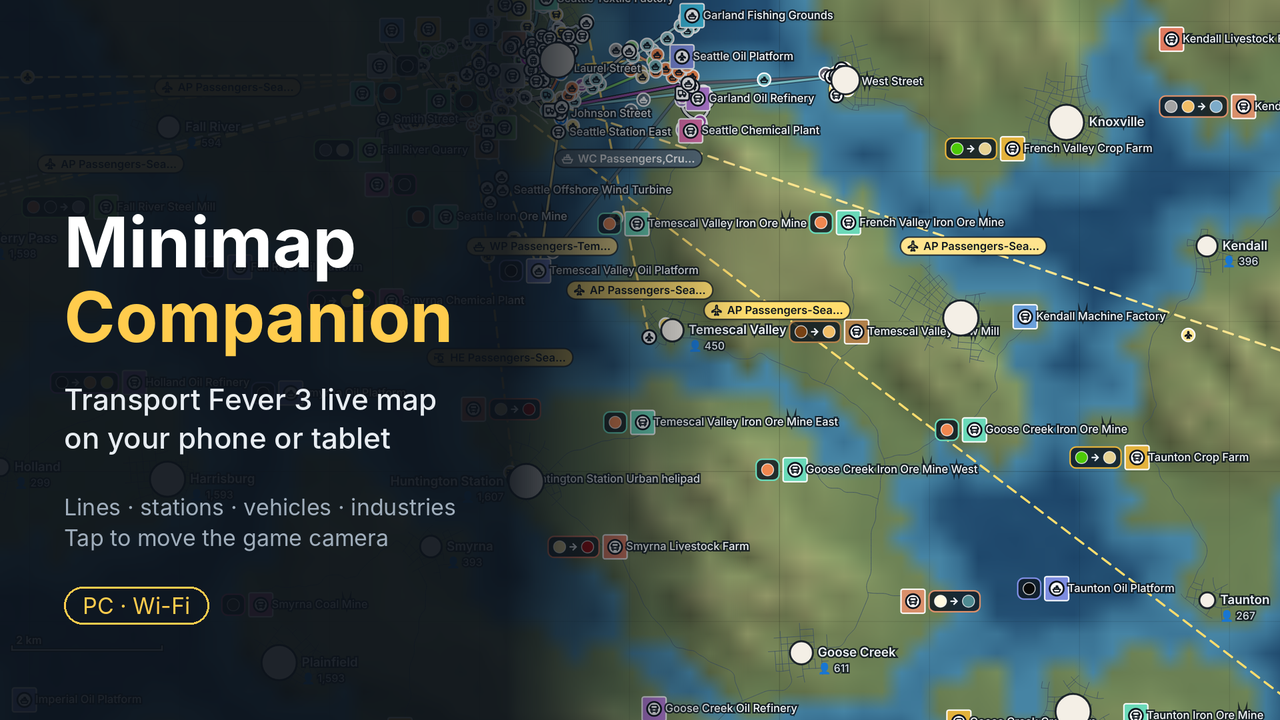
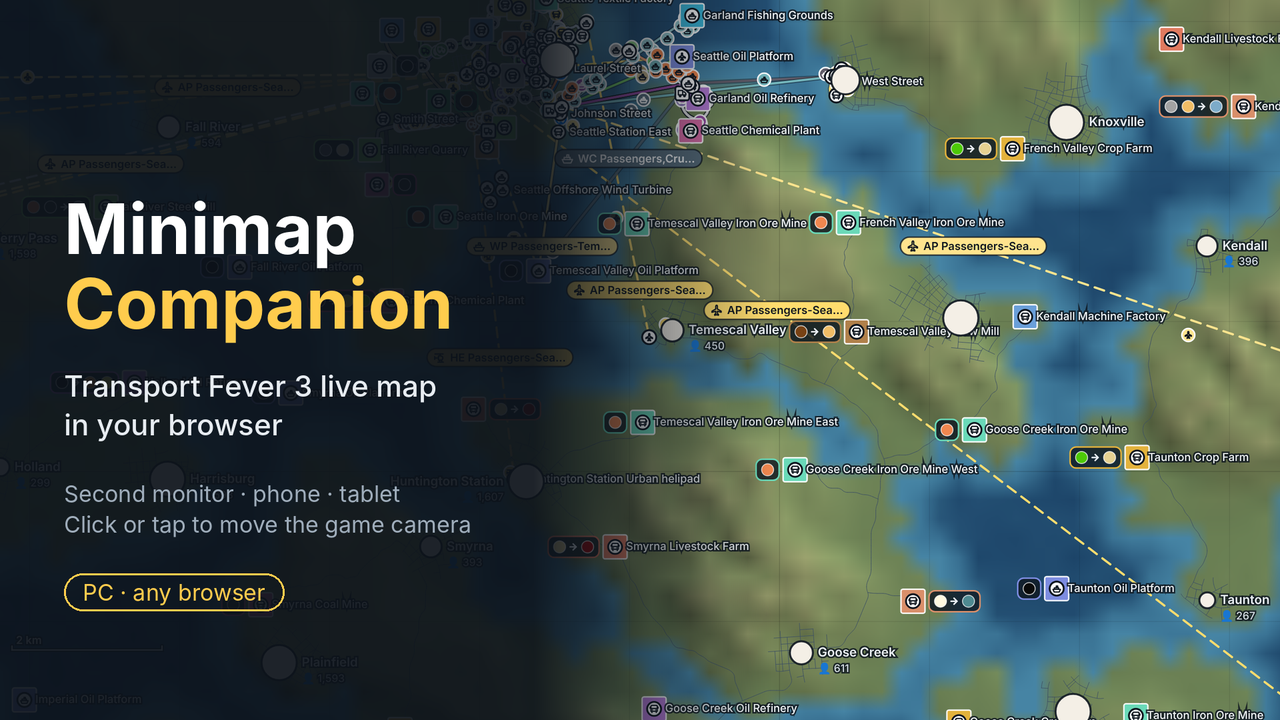
Say it works in any browser: second monitor, phone or tablet (1.0.1)
Claude-Session: https://claude.ai/code/session_017o9gpQLfDhyT3ybSaTMbnh

diff --git a/companion/tf3map_server.py b/companion/tf3map_server.py
@@ -8,7 +8,8 @@ commands. Python 3 standard library only.
     python3 tf3map_server.py            # port 8765
     python3 tf3map_server.py --port 9000
 
-Then open the printed URL on a phone/tablet in the same Wi-Fi.
+Then open the printed URL in a browser: on this computer (e.g. a second monitor)
+or on a phone/tablet in the same Wi-Fi.
 """
 
 import argparse
@@ -655,7 +656,7 @@ def lan_addresses():
     return addrs, host
 
 
-VERSION = "1.0.0"
+VERSION = "1.0.1"
 
 
 def fail(msg):
@@ -699,11 +700,12 @@ def main():
         fail(f"Cannot open port {args.port} ({e}).\n"
              f"Is the companion already running? Close the other window, or start with --port {args.port + 1}.")
     addrs, host = lan_addresses()
-    print("\nOpen on your phone or tablet (same Wi-Fi as this computer):")
+    print("\nOpen the map in a browser:")
+    print(f"  on this computer (e.g. a second monitor):  http://localhost:{args.port}")
+    print("  on a phone or tablet in the same Wi-Fi:")
     for a in addrs:
-        print(f"  http://{a}:{args.port}")
-    print(f"  http://{host}:{args.port}")
-    print(f"On this computer: http://localhost:{args.port}\n")
+        print(f"    http://{a}:{args.port}")
+    print(f"    http://{host}:{args.port}\n")
     print("Keep this window open while you play. Ctrl+C or closing the window stops it.")
     try:
         srv.serve_forever()

diff --git a/README.md b/README.md
@@ -1,12 +1,12 @@
-# TF3 Minimap — your Transport Fever 3 game on your phone
+# TF3 Minimap — your Transport Fever 3 game as a live map in your browser
 
-A live map of your Transport Fever 3 world on a phone or tablet, as a second screen while you play.
+A live map of your Transport Fever 3 world in any web browser while you play — on a **second monitor**, a **phone** or a **tablet**. Nothing to install on the phone: it is a web page.
 
 ![Minimap](docs/preview.png)
 
 - **Live map**: terrain and water, roads and tracks, towns with population, industries with the cargo they accept and produce, every station and line along its real route, moving vehicles.
-- **Tap for details**: what a line carries right now, load, interval; station catchment; industry production and deliveries.
-- **Drive the game camera**: tap a place to jump there, tap a vehicle to follow it.
+- **Tap or click for details**: what a line carries right now, load, interval; station catchment; industry production and deliveries.
+- **Drive the game camera**: tap or click a place to jump there, a vehicle to follow it.
 - **Filters**: transport types, passengers / cargo, industry types, layers. Rotate the map to any angle, km or miles, export the network as SVG.
 - **13 languages**, the same as the game.
 
@@ -15,12 +15,12 @@ PC only (Windows, Mac, Linux / Steam Deck). It does **not** work on consoles: th
 ## How it works
 
 ```
-Transport Fever 3 ── mod writes map data ──▶ game save folder ──▶ companion app ──▶ phone browser (same Wi-Fi)
+Transport Fever 3 ── mod writes map data ──▶ game save folder ──▶ companion app ──▶ browser: 2nd monitor / phone / tablet
                  ◀── camera commands ───────────────────────────────┘
 ```
 
 The mod (Lua, runs inside the game) exports the map into the game's save folder and reads camera commands.
-The companion (Python, no extra packages) serves the page to your local network. Nothing goes to the internet.
+The companion (Python, no extra packages) serves the page on this computer and to your local network. Nothing goes to the internet.
 
 ## Install
 
@@ -30,7 +30,9 @@ The companion (Python, no extra packages) serves the page to your local network.
    - Windows: `TF3-Minimap-Windows.zip` — unzip, double-click `TF3 Minimap.exe` (no Python needed).
      First start: "Windows protected your PC" → *More info* → *Run anyway*; allow *Private networks* in the firewall prompt.
    - Mac / Linux / Steam Deck: `TF3-Minimap-Mac-Linux.zip` — unzip, start `Start Minimap (Mac).command` (right-click → Open the first time) or `start-minimap-linux.sh`. Needs Python 3.
-3. Open the address the companion shows (e.g. `http://192.168.1.20:8765`) on your phone, in the same Wi-Fi.
+3. Open the address the companion shows in a browser:
+   - second monitor of the same computer: `http://localhost:8765`
+   - phone or tablet in the same Wi-Fi: the `http://192.168.x.x:8765` address it lists.
 
 Phone does not connect? Same network (not a guest Wi-Fi, no VPN on the phone), firewall allows the app, try every address listed.
 
@@ -55,14 +57,14 @@ Anyone in the same Wi-Fi who knows the address can see the map and move the came
 
 ## Русский
 
-Живая карта игры Transport Fever 3 на телефоне или планшете — второй экран во время игры: рельеф, дороги и пути, города, производства с иконками грузов, станции и линии по реальным маршрутам, движущийся транспорт. Нажатие показывает подробности и переносит камеру игры. Фильтры, поворот карты, км/мили, экспорт схемы в SVG, 13 языков.
+Живая карта игры Transport Fever 3 в обычном браузере — на втором мониторе, телефоне или планшете (на телефон ничего ставить не нужно, это веб-страница): рельеф, дороги и пути, города, производства с иконками грузов, станции и линии по реальным маршрутам, движущийся транспорт. Нажатие показывает подробности и переносит камеру игры. Фильтры, поворот карты, км/мили, экспорт схемы в SVG, 13 языков.
 
 Только ПК (Windows, Mac, Linux / Steam Deck); на консолях не работает.
 
 **Установка**
 1. Подпишитесь на мод **Minimap Companion** на mod.io (в игре: Моды) и включите его при загрузке сохранения.
 2. Скачайте компаньон в [Releases](../../releases/latest): Windows — `TF3-Minimap-Windows.zip`, запуск `TF3 Minimap.exe` (Python не нужен; при первом запуске «Подробнее → Выполнить в любом случае» и разрешить «Частные сети» в брандмауэре). Mac/Linux — `TF3-Minimap-Mac-Linux.zip`, нужен Python 3.
-3. Откройте на телефоне адрес из окна компаньона (телефон в той же Wi-Fi сети).
+3. Откройте в браузере адрес из окна компаньона: на втором мониторе того же компьютера — `http://localhost:8765`, на телефоне или планшете в той же Wi-Fi сети — адрес `http://192.168.x.x:8765`.
 
 ## License
 
